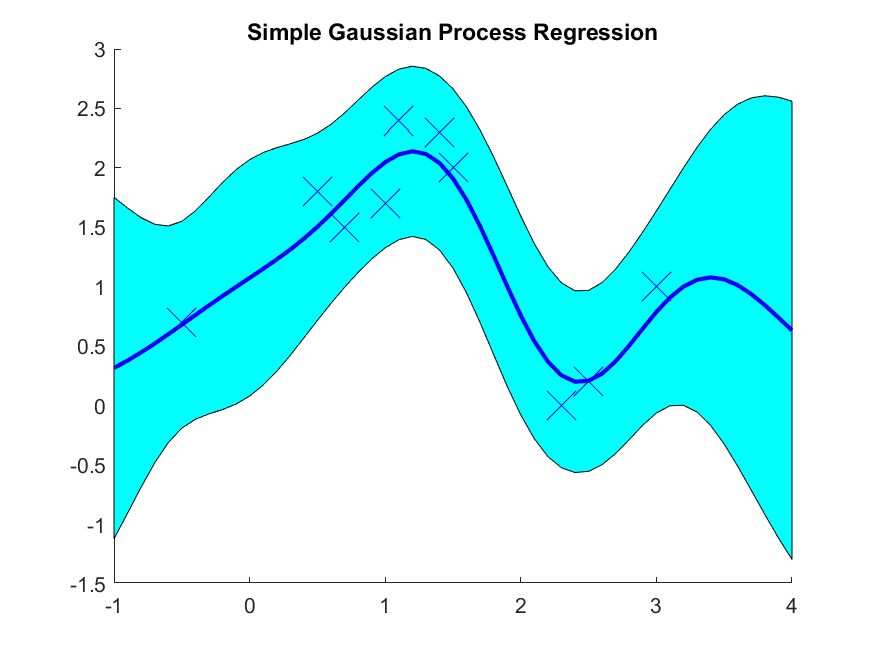
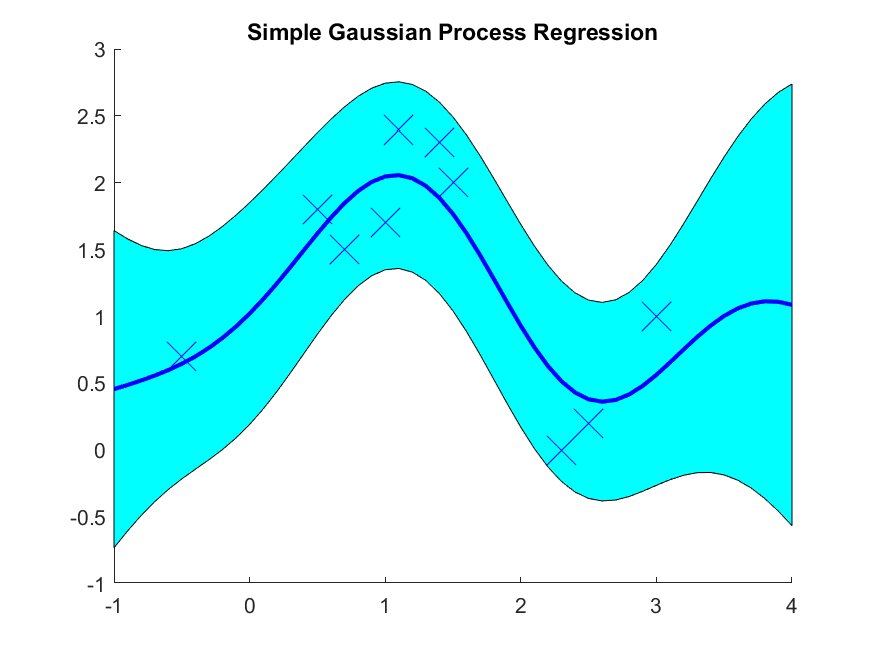
ハイパーパラメターた推定うまくいってなさそう

diff --git a/3_chapter/gpr_with_params_estimation.m b/3_chapter/gpr_with_params_estimation.m
@@ -6,8 +6,8 @@ close all
 % kernel parameters
 tau = log(1);
 sigma = log(1);
-% eta = log(1);
-eta = log(0.1);
+eta = log(1);
+% eta = log(0.1);
 
 params = [tau sigma eta];
 
@@ -29,8 +29,8 @@ L_grad(params, xtrain, ytrain);
 % -------------------------------------------------------------------------
 
 % カーネル行列のハイパーパラメータ推定
-% params = optimize1(params, xtrain, ytrain)
-params
+params = optimize1(params, xtrain, ytrain)
+% params
 
 % 回帰の計算
 xx = (-1:0.1:4)';
@@ -67,7 +67,7 @@ function gaussian_kernel = gaussian_kernel(x, y, params, train)
     end
     tau = params(1,1); sigma = params(1,2); eta = params(1,3);
     % 無名関数
-    kgauss = @(x, y) exp(tau) * exp(-(x - y)^2 / exp(sigma));
+    kgauss = @(x, y) exp(tau) * exp(-(x - y)^2 / (exp(sigma)));
     if train == true && x == y
         gaussian_kernel = kgauss(x, y) + exp(eta);
     else
@@ -95,7 +95,7 @@ end
 function kv = kv(x, xtrain, params) % kernelを無名関数で作ってないから，kernelとして引数で与えられないことに注意．
     kv = zeros(length(xtrain), 1);
     for i = 1:1:length(xtrain)
-        kv(i,1) = gaussian_kernel(x, xtrain(i,1), params, false) % kvを作るときになんかしてる．．．
+        kv(i,1) = gaussian_kernel(x, xtrain(i,1), params, false); % kvを作るときになんかしてる．．．
     end    
 end
 
@@ -184,7 +184,7 @@ end
 function res = optimize1(params, xtrain, ytrain, eps, alpha, k_max) % initは初期値？
     arguments
         % eps: 収束判定条件，alpha: 学習率，k_max: 繰り返しの最大回数
-        params; xtrain; ytrain; eps = 1e-4; alpha = 1e-2; k_max = 100000;
+        params; xtrain; ytrain; eps = 1e-4; alpha = 1e-2; k_max = 10000;
     end
     repeat = 0;
     for k = 1:1:k_max
